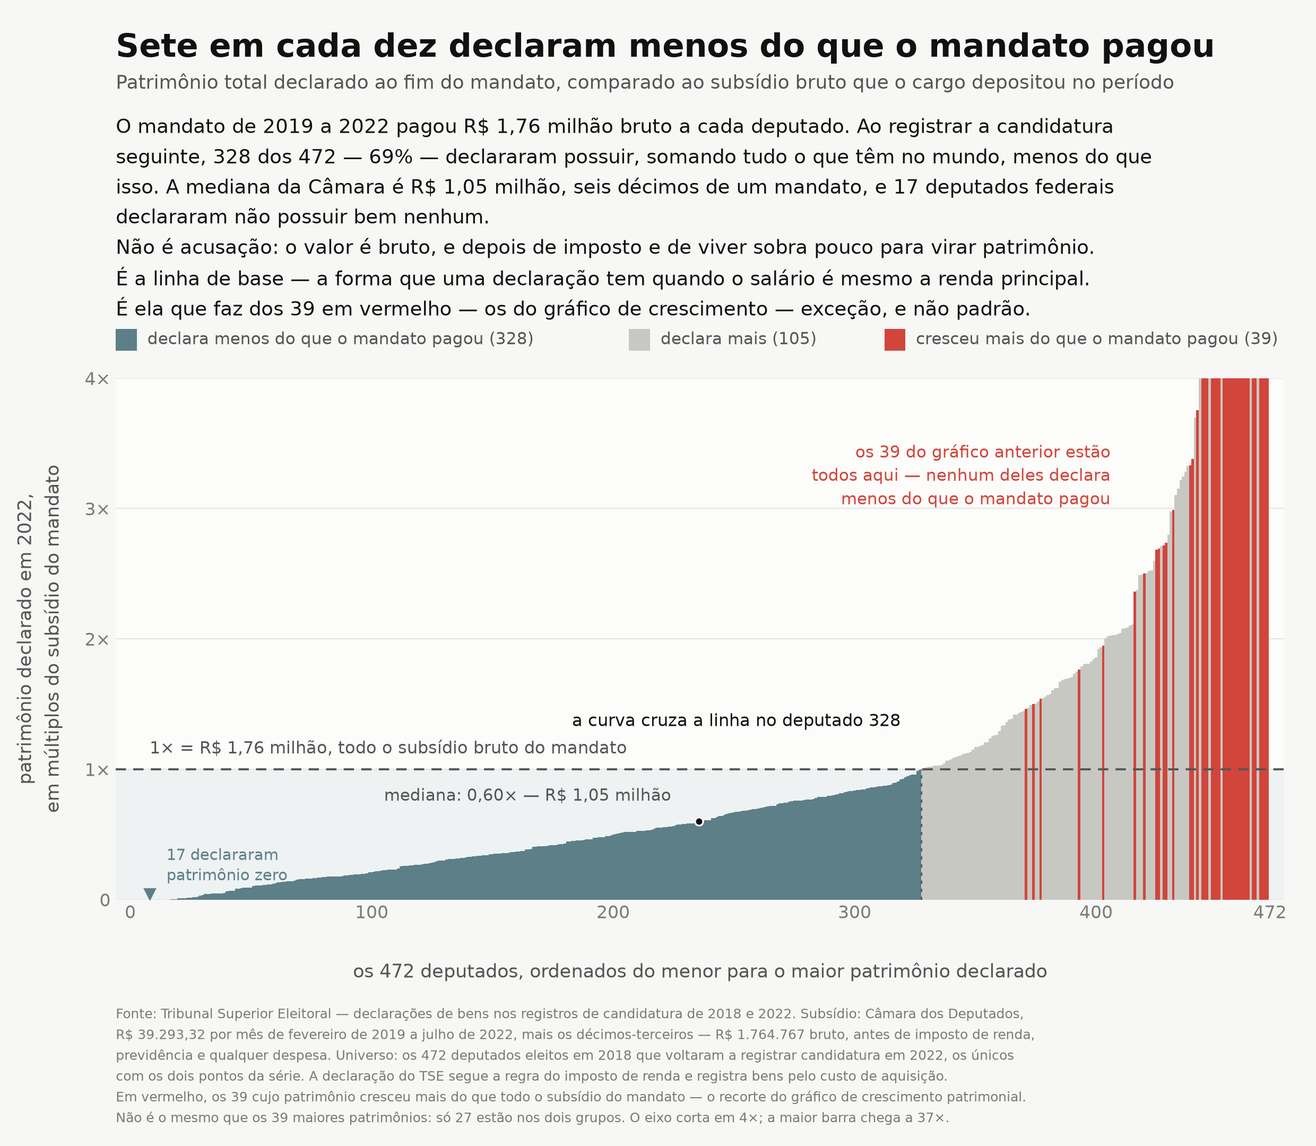
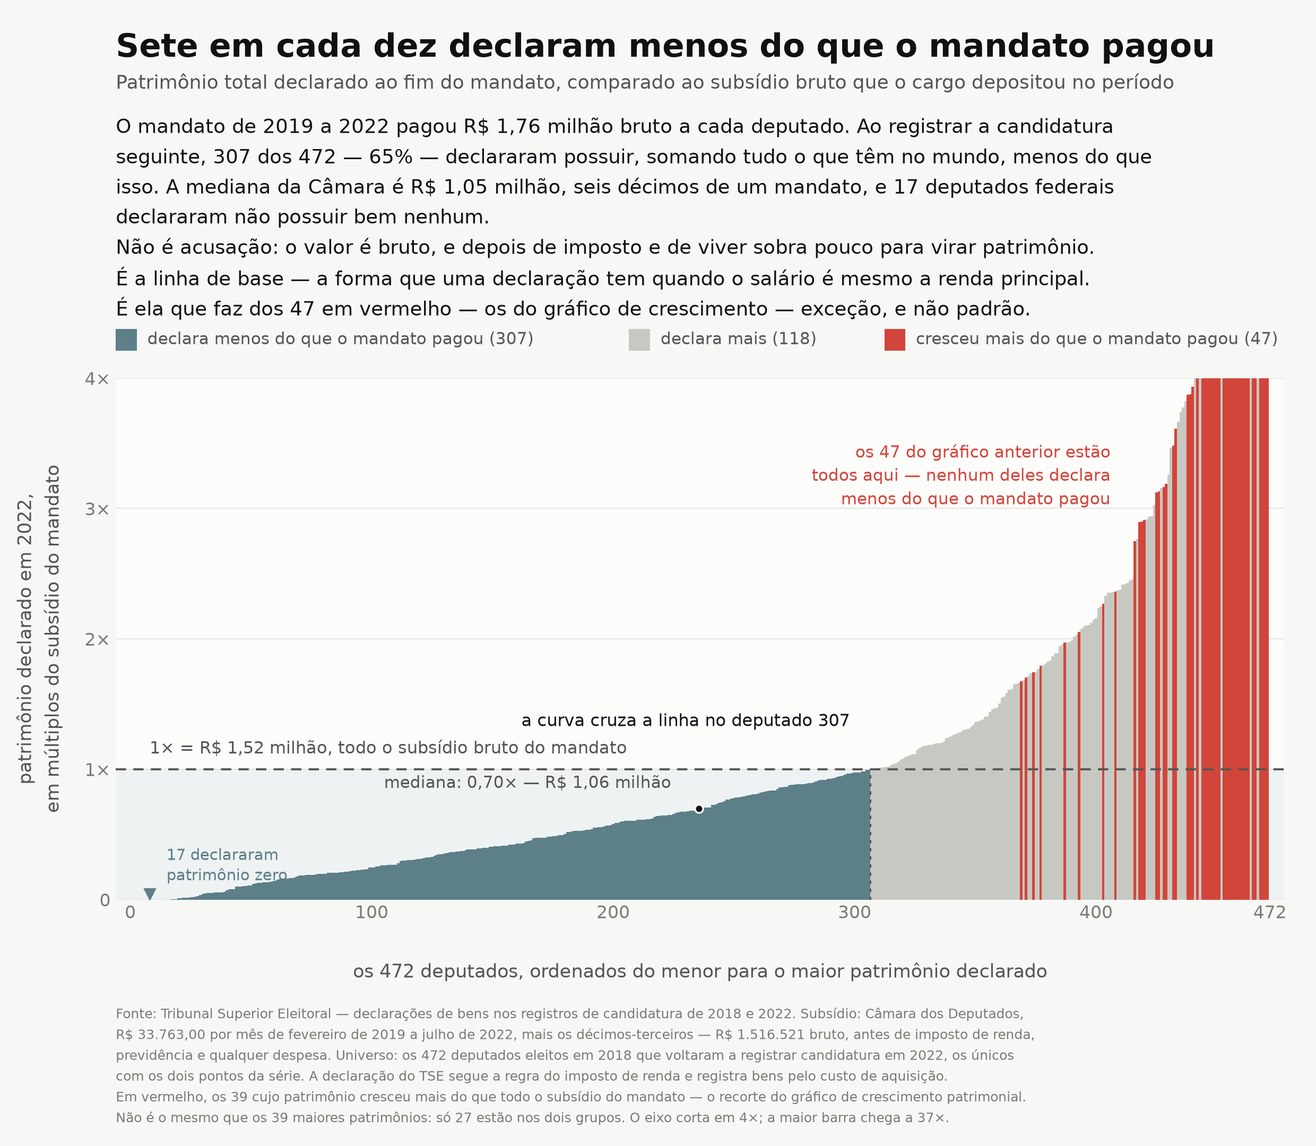
fix: corrige a régua do subsídio em "O salário não explica"
A constante era R$ 1.764.767, derivada de R$ 39.293,32/mês "desde
fevereiro de 2019". O valor existe, a data não: ele só passou a vigorar em
1º de janeiro de 2023, pelo Decreto Legislativo 172/2022. No mandato
2019-2022 o subsídio foi R$ 33.763,00, fixado pelo DL 276/2014 e congelado
desde fevereiro de 2015. A régua estava 16,4% alta, e o erro tornou a
análise mais conservadora do que os dados permitiam.

Com R$ 1.516.521:
- 47 deputados cruzam a linha, não 39
- eles concentram 69,1% do crescimento positivo, não 89,6%
- o capital social das próprias empresas cobre 13 deles, não 11, e sobram
  R$ 162,8 milhões sem contrapartida, não R$ 153,1 milhões
- 157 encolheram, não 150
- por bloco: direita 27 (11,5%), centro 13 (10,3%), esquerda 7 (6,3%) — a
  distância entre direita e centro praticamente some, o que enfraquece a
  leitura por espectro que o capítulo já tratava com cautela
- no gráfico do estoque: 307 abaixo de 1x (65,0%), não 328 (69,5%), e
  mediana 0,70x, não 0,60x

Três figuras regeradas. Os rótulos de valor passam a derivar da constante
em vez de repetir o número à mão.

Changed region(s): [[0.2794, 0.3412, 0.9315, 0.8065], [0.2484, 0.7444, 0.3726, 0.7755], [0.2173, 0.2481, 0.2484, 0.2792]]

diff --git a/pages/analises/o-salario-nao-explica/index.html b/pages/analises/o-salario-nao-explica/index.html
@@ -5,7 +5,7 @@
 <meta name="viewport" content="width=device-width, initial-scale=1">
 <!-- gerado por scripts/gera_analises.py — não editar à mão -->
 <title>O salário não explica — rodado</title>
-<meta name="description" content="Um deputado ganhou R$ 1,76 milhão de subsídio bruto entre 2018 e 2022. Trinta e nove declararam crescimento patrimonial maior que isso — e concentram 89,6% de tudo o que a Câmara engordou no período. No topo, uma fazenda de R$ 32,9 milhões que não existia na declaração anterior, e um crédito contra o mesmo parente que saltou de R$ 950 mil para R$ 8,8 milhões. Na outra ponta, 150 encolheram e 17 declararam zero. E metade da Casa — 253 dos 513 — é dona ou sócia de empresa, 933 no total.">
+<meta name="description" content="Um deputado ganhou R$ 1,52 milhão de subsídio bruto entre 2018 e 2022 — valor congelado desde 2014. Quarenta e sete declararam crescimento patrimonial maior que isso, e concentram 69,1% de tudo o que a Câmara engordou no período. No topo, uma fazenda de R$ 32,9 milhões que não existia na declaração anterior, e um crédito contra o mesmo parente que saltou de R$ 950 mil para R$ 8,8 milhões. Na outra ponta, 157 encolheram e 17 declararam zero. E metade da Casa — 253 dos 513 — é dona ou sócia de empresa, 933 no total.">
 <!-- seo:start (gerado por scripts/gera_seo.py — não editar à mão) -->
 <link rel="canonical" href="https://rodado.xyz/analises/o-salario-nao-explica/">
 <meta property="og:type" content="article">
@@ -13,14 +13,14 @@
 <meta property="og:locale" content="pt_BR">
 <meta property="og:url" content="https://rodado.xyz/analises/o-salario-nao-explica/">
 <meta property="og:title" content="O salário não explica">
-<meta property="og:description" content="Um deputado ganhou R$ 1,76 milhão de subsídio bruto entre 2018 e 2022. Trinta e nove declararam crescimento patrimonial maior que isso — e concentram 89,6% de tudo o que a Câmara engordou no período. No topo, uma fazenda de R$ 32,9 milhões que não existia na declaração anterior, e um crédito contra o mesmo parente que saltou de R$ 950 mil para R$ 8,8 milhões. Na outra ponta, 150 encolheram e 17 declararam zero. E metade da Casa — 253 dos 513 — é dona ou sócia de empresa, 933 no total.">
+<meta property="og:description" content="Um deputado ganhou R$ 1,52 milhão de subsídio bruto entre 2018 e 2022 — valor congelado desde 2014. Quarenta e sete declararam crescimento patrimonial maior que isso, e concentram 69,1% de tudo o que a Câmara engordou no período. No topo, uma fazenda de R$ 32,9 milhões que não existia na declaração anterior, e um crédito contra o mesmo parente que saltou de R$ 950 mil para R$ 8,8 milhões. Na outra ponta, 157 encolheram e 17 declararam zero. E metade da Casa — 253 dos 513 — é dona ou sócia de empresa, 933 no total.">
 <meta property="og:image" content="https://rodado.xyz/analises/img/og-o-salario-nao-explica.png">
 <meta property="og:image:width" content="1200">
 <meta property="og:image:height" content="630">
 <meta property="og:image:alt" content="O salário não explica — rodado">
 <meta name="twitter:card" content="summary_large_image">
 <meta name="twitter:title" content="O salário não explica">
-<meta name="twitter:description" content="Um deputado ganhou R$ 1,76 milhão de subsídio bruto entre 2018 e 2022. Trinta e nove declararam crescimento patrimonial maior que isso — e concentram 89,6% de tudo o que a Câmara engordou no período. No topo, uma fazenda de R$ 32,9 milhões que não existia na declaração anterior, e um crédito contra o mesmo parente que saltou de R$ 950 mil para R$ 8,8 milhões. Na outra ponta, 150 encolheram e 17 declararam zero. E metade da Casa — 253 dos 513 — é dona ou sócia de empresa, 933 no total.">
+<meta name="twitter:description" content="Um deputado ganhou R$ 1,52 milhão de subsídio bruto entre 2018 e 2022 — valor congelado desde 2014. Quarenta e sete declararam crescimento patrimonial maior que isso, e concentram 69,1% de tudo o que a Câmara engordou no período. No topo, uma fazenda de R$ 32,9 milhões que não existia na declaração anterior, e um crédito contra o mesmo parente que saltou de R$ 950 mil para R$ 8,8 milhões. Na outra ponta, 157 encolheram e 17 declararam zero. E metade da Casa — 253 dos 513 — é dona ou sócia de empresa, 933 no total.">
 <meta name="twitter:image" content="https://rodado.xyz/analises/img/og-o-salario-nao-explica.png">
 <link rel="icon" href="../../assets/favicon.ico" sizes="any">
 <link rel="icon" type="image/png" sizes="32x32" href="../../assets/favicon-32.png">
@@ -29,7 +29,7 @@
 <link rel="manifest" href="https://rodado.xyz/site.webmanifest">
 <meta name="theme-color" content="#9c3b2e">
 <meta name="robots" content="index,follow,max-image-preview:large,max-snippet:-1">
-<script type="application/ld+json">{"@context":"https://schema.org","@type":"Article","headline":"O salário não explica","description":"Um deputado ganhou R$ 1,76 milhão de subsídio bruto entre 2018 e 2022. Trinta e nove declararam crescimento patrimonial maior que isso — e concentram 89,6% de tudo o que a Câmara engordou no período. No topo, uma fazenda de R$ 32,9 milhões que não existia na declaração anterior, e um crédito contra o mesmo parente que saltou de R$ 950 mil para R$ 8,8 milhões. Na outra ponta, 150 encolheram e 17 declararam zero. E metade da Casa — 253 dos 513 — é dona ou sócia de empresa, 933 no total.","url":"https://rodado.xyz/analises/o-salario-nao-explica/","image":"https://rodado.xyz/analises/img/og-o-salario-nao-explica.png","datePublished":"2026-08","inLanguage":"pt-BR","author":{"@type":"Organization","name":"rodado"},"isPartOf":{"@type":"WebSite","name":"rodado","url":"https://rodado.xyz/"}}</script>
+<script type="application/ld+json">{"@context":"https://schema.org","@type":"Article","headline":"O salário não explica","description":"Um deputado ganhou R$ 1,52 milhão de subsídio bruto entre 2018 e 2022 — valor congelado desde 2014. Quarenta e sete declararam crescimento patrimonial maior que isso, e concentram 69,1% de tudo o que a Câmara engordou no período. No topo, uma fazenda de R$ 32,9 milhões que não existia na declaração anterior, e um crédito contra o mesmo parente que saltou de R$ 950 mil para R$ 8,8 milhões. Na outra ponta, 157 encolheram e 17 declararam zero. E metade da Casa — 253 dos 513 — é dona ou sócia de empresa, 933 no total.","url":"https://rodado.xyz/analises/o-salario-nao-explica/","image":"https://rodado.xyz/analises/img/og-o-salario-nao-explica.png","datePublished":"2026-08","inLanguage":"pt-BR","author":{"@type":"Organization","name":"rodado"},"isPartOf":{"@type":"WebSite","name":"rodado","url":"https://rodado.xyz/"}}</script>
 <!-- seo:end -->
 <!-- a linha do site.css é marca do bloco comum: o gera_seo.py a substitui pelo
      bloco inteiro aqui, e não no fim do <head>, para o analises.css abaixo

diff --git a/scripts/plot_patrimonio_abaixo_subsidio.py b/scripts/plot_patrimonio_abaixo_subsidio.py
@@ -2,7 +2,7 @@
 """O outro lado da mesma régua: quantos deputados declaram ter menos do que o
 mandato lhes pagou.
 
-O gráfico dos múltiplos do subsídio olha para cima — os 39 cujo patrimônio
+O gráfico dos múltiplos do subsídio olha para cima — os 47 cujo patrimônio
 cresceu mais do que o cargo poderia ter pago. Este olha para baixo, e mede
 outra coisa: não o crescimento, mas o **estoque**. Ao fim do mandato, quanto
 cada deputado declara possuir no total, comparado com o que o mandato inteiro
@@ -11,19 +11,19 @@ lhe depositou em conta.
   universo   os mesmos 472 deputados federais eleitos em 2018 que voltaram a
              registrar candidatura em 2022.
   eixo y     patrimônio total declarado no registro de 2022 dividido pelo
-             subsídio bruto do mandato (R$ 1.764.767). 1,0 = o deputado declara
+             subsídio bruto do mandato (R$ 1.516.521). 1,0 = o deputado declara
              possuir exatamente o que o cargo lhe pagou em 42 meses.
   eixo x     os 472 ordenados do menor para o maior.
 
 Por que a comparação não acusa ninguém: o subsídio é bruto. Descontado imposto
-de renda e previdência sobram cerca de R$ 1,25 milhão, e sobre isso ainda incide
+de renda e previdência sobram cerca de R$ 1,1 milhão, e sobre isso ainda incide
 a vida — moradia, escola, viagem, o custo de manter presença em dois estados.
 Declarar menos de 1× é o comportamento esperado de quem gasta o que ganha.
 
 O que o gráfico mostra, então, é a **linha de base**: a forma que uma declaração
-de bens tem quando o salário é a renda principal. É essa forma que torna os 39
+de bens tem quando o salário é a renda principal. É essa forma que torna os 47
 do outro gráfico visíveis como exceção. E é ela que dá escala ao terceiro grupo,
-o dos 133 que declaram menos que o subsídio do mandato e ainda assim declararam
+o dos que declaram menos que o subsídio do mandato e ainda assim declararam
 em 2022 menos do que tinham em 2018.
 
 Ressalva de dado: bens_candidato traz ~1% de linhas byte-idênticas repetidas.
@@ -41,7 +41,14 @@ import subprocess
 import matplotlib.pyplot as plt
 from matplotlib.patches import Rectangle
 
-SUBSIDIO = 1_764_767.0
+SUBSIDIO = 1_516_521.0   # bruto acumulado do mandato entre as duas declarações
+# R$ 33.763,00/mês, fixado pelo Decreto Legislativo 276/2014 com efeitos a
+# partir de 1º/02/2015 e congelado até 31/12/2022 — vigorou, portanto, no
+# mandato inteiro. São 42 meses (fev/2019 a jul/2022) mais os décimos-terceiros
+# de 2019 (proporcional), 2020 e 2021.
+# Antes daqui havia R$ 1.764.767, derivado de R$ 39.293,32/mês "desde fevereiro
+# de 2019". O valor existe, a data não: ele só passou a vigorar em 1º/01/2023,
+# pelo Decreto Legislativo 172/2022. A régua estava 16,4% alta.
 
 SQL = """SET enable_progress_bar=false;
 WITH bens AS (
@@ -156,14 +163,16 @@ ax.text(len(abaixo) - 9, 1.30,
         f"a curva cruza a linha no deputado {len(abaixo)}",
         fontsize=11.5, color=TXT, va="bottom", ha="right", zorder=7)
 
-ax.text(8, 1.09, "1× = R\\$ 1,76 milhão, todo o subsídio bruto do mandato",
+ax.text(8, 1.09, f"1× = R\\$ {SUBSIDIO/1e6:.2f}".replace(".", ",")
+        + " milhão, todo o subsídio bruto do mandato",
         fontsize=11.5, color=TXT2, va="bottom", ha="left", zorder=7)
 
 # mediana
 ax.plot([n // 2 - 0.5], [mediana], marker="o", ms=5.5, color=TXT,
         zorder=7, mec=SURFACE, mew=1.2)
 ax.text(n // 2 - 12, mediana + 0.13,
-        f"mediana: {('%.2f' % mediana).replace('.', ',')}× — R\\$ 1,05 milhão",
+        f"mediana: {('%.2f' % mediana).replace('.', ',')}× — R\\$ "
+        + f"{mediana*SUBSIDIO/1e6:.2f}".replace(".", ",") + " milhão",
         fontsize=11, color=TXT2, va="bottom", ha="right", zorder=7)
 
 ax.text(n - 66, 3.52,
@@ -203,7 +212,7 @@ for x, cor, rot in ((0.088, ABAIXO, f"declara menos do que o mandato pagou ({len
 
 fig.text(0.088, 0.124,
          "Fonte: Tribunal Superior Eleitoral — declarações de bens nos registros de candidatura de 2018 e 2022. Subsídio: Câmara dos Deputados,\n"
-         "R\\$ 39.293,32 por mês de fevereiro de 2019 a julho de 2022, mais os décimos-terceiros — R\\$ 1.764.767 bruto, antes de imposto de renda,\n"
+         "R\\$ 33.763,00 por mês de fevereiro de 2019 a julho de 2022, mais os décimos-terceiros — R\\$ 1.516.521 bruto, antes de imposto de renda,\n"
          "previdência e qualquer despesa. Universo: os 472 deputados eleitos em 2018 que voltaram a registrar candidatura em 2022, os únicos\n"
          "com os dois pontos da série. A declaração do TSE segue a regra do imposto de renda e registra bens pelo custo de aquisição.\n"
          "Em vermelho, os 39 cujo patrimônio cresceu mais do que todo o subsídio do mandato — o recorte do gráfico de crescimento patrimonial.\n"

diff --git a/scripts/plot_patrimonio_deputados_2018_2022.py b/scripts/plot_patrimonio_deputados_2018_2022.py
@@ -27,10 +27,10 @@ cobre o crescimento declarado, o excedente não tem, no dado público, de onde t
 vindo. Onde ela cobre, o caso deixa de ser anomalia de salário e vira pergunta
 de contabilidade empresarial — outra apuração, com outros documentos.
 
-Subsídio: R$ 39.293,32/mês desde fevereiro de 2019 (Câmara dos Deputados).
+Subsídio: R$ 33.763,00/mês (Decreto Legislativo 276/2014, efeitos desde 1º/02/2015).
 Entre a declaração de 2018 (registro em agosto) e a de 2022 (idem) o eleito
 exerceu mandato de fev/2019 a jul/2022 — 42 meses — mais os décimos-terceiros
-de 2019 (proporcional), 2020 e 2021. Total bruto: R$ 1.764.767.
+de 2019 (proporcional), 2020 e 2021. Total bruto: R$ 1.516.521.
 
 Por que a comparação faz sentido: a declaração de bens do TSE segue a regra do
 imposto de renda e registra bens pelo **custo de aquisição**, não pelo valor de
@@ -69,7 +69,14 @@ import subprocess
 import matplotlib.pyplot as plt
 from matplotlib.patches import FancyBboxPatch, Rectangle
 
-SUBSIDIO = 1_764_767.0   # bruto acumulado do mandato entre as duas declarações
+SUBSIDIO = 1_516_521.0   # bruto acumulado do mandato entre as duas declarações
+# R$ 33.763,00/mês, fixado pelo Decreto Legislativo 276/2014 com efeitos a
+# partir de 1º/02/2015 e congelado até 31/12/2022 — vigorou, portanto, no
+# mandato inteiro. São 42 meses (fev/2019 a jul/2022) mais os décimos-terceiros
+# de 2019 (proporcional), 2020 e 2021.
+# Antes daqui havia R$ 1.764.767, derivado de R$ 39.293,32/mês "desde fevereiro
+# de 2019". O valor existe, a data não: ele só passou a vigorar em 1º/01/2023,
+# pelo Decreto Legislativo 172/2022. A régua estava 16,4% alta.
 
 SQL = """SET enable_progress_bar=false;
 WITH bens AS (

diff --git a/pages/analises/results/o-salario-nao-explica.md b/pages/analises/results/o-salario-nao-explica.md
@@ -1,15 +1,15 @@
 # O salário não explica
 
-Um deputado federal ganhou **R$ 1,76 milhão** entre a eleição de 2018 e a de 2022. É o subsídio
-bruto integral: R$ 39.293,32 por mês desde fevereiro de 2019, 42 meses de mandato, mais três
+Um deputado federal ganhou **R$ 1,52 milhão** entre a eleição de 2018 e a de 2022. É o subsídio
+bruto integral: R$ 33.763,00 por mês, valor fixado em 2014 e congelado até o fim de 2022, 42 meses de mandato, mais três
 décimos-terceiros — tudo antes de imposto de renda, previdência, aluguel em Brasília, escola de
 filho, mercado, gasolina. É o teto absoluto do que o cargo poderia ter posto no bolso de alguém
 que não gastasse **nada**.
 
-Dos 472 deputados eleitos em 2018 que voltaram a registrar candidatura em 2022, **39 declararam
+Dos 472 deputados eleitos em 2018 que voltaram a registrar candidatura em 2022, **47 declararam
 um crescimento patrimonial maior que esse teto**. Um deles cresceu vinte e três vezes mais.
 
-E os 39 não são uma cauda qualquer: eles concentram **89,6% de todo o crescimento patrimonial**
+E os 47 não são uma cauda qualquer: eles concentram **69,1% de todo o crescimento patrimonial**
 declarado pelos 472. A Câmara inteira engordou R$ 264,4 milhões entre uma eleição e outra, e
 R$ 237 milhões disso couberam a 8% dos deputados.
 
@@ -52,7 +52,7 @@ que o parlamentar consta do quadro societário como sócio ou titular — sem de
 demais sócios, sem exigir que aquele capital tenha virado renda no bolso dele, e sem cobrar que a
 empresa seja anterior ao mandato. É o teto do negócio que ele tem, não o que tirou de lá.
 
-Mesmo assim, **ela cobre o crescimento de apenas 11 dos 39**. Nos outros 28 sobram **R$ 153,1
+Mesmo assim, **ela cobre o crescimento de apenas 11 dos 47**. Nos outros 34 sobram **R$ 162,8
 milhões** de patrimônio novo que nem o salário nem a empresa própria explicam.
 
 A separação reorganiza a lista inteira. **Hercílio Araújo Diniz Filho** e **Misael Varella**, 2º e
@@ -128,7 +128,7 @@ Nove vezes maior, e sozinho equivalente a 116% de todo o crescimento patrimonial
 (outros itens encolheram).
 
 Emprestar R$ 8,8 milhões a um parente durante o mandato exige ter tido R$ 8,8 milhões líquidos
-para emprestar. O subsídio bruto de todo o período foi R$ 1,76 milhão.
+para emprestar. O subsídio bruto de todo o período foi R$ 1,52 milhão.
 
 ### Misael Artur Ferreira Varella (MG) — o grupo familiar
 
@@ -137,7 +137,7 @@ A maior peça é a participação na **Lael Varella Educação e Cultura Ltda** 
 parte de um conjunto de oito empresas do grupo familiar — administração, empreendimentos
 imobiliários, veículos pesados, pneus, águas minerais.
 
-É o perfil mais comum entre os 39: dinastia empresarial consolidada, onde o patrimônio do grupo
+É o perfil mais comum entre os 47: dinastia empresarial consolidada, onde o patrimônio do grupo
 vai sendo progressivamente refletido na declaração pessoal. Menos "enriquecimento súbito", mais
 "contabilidade familiar aparecendo aos poucos" — o que é uma explicação, não uma absolvição:
 a origem do capital continua fora do alcance do dado público.
@@ -183,7 +183,7 @@ deveria tornar a trajetória rastreável.
 
 A pergunta é inevitável, e a resposta tem duas partes que apontam para lados diferentes.
 
-Dos 39 que passam da linha do subsídio, **24 são de partidos de direita, 9 de centro e 6 de
+Dos 47 que passam da linha do subsídio, **27 são de partidos de direita, 13 de centro e 7 de
 esquerda**. Parece muito. Só que o universo já é assim: dos 472 deputados comparáveis, 235
 (49,8%) estavam em legendas de direita no registro de 2022, 126 no centro e 111 na esquerda. O
 grupo que não fecha a conta é majoritariamente de direita, em boa medida, porque **a Câmara é
@@ -191,18 +191,18 @@ majoritariamente de direita**.
 
 | bloco | no universo | acima de 1× | taxa | encolheram | crescimento mediano |
 |---|---:|---:|---:|---:|---:|
-| esquerda | 111 | 6 | 5,4% | 44 (39,6%) | R$ 67 mil |
-| centro | 126 | 9 | 7,1% | 44 (34,9%) | R$ 129 mil |
-| direita | 235 | 24 | 10,2% | 62 (26,4%) | R$ 277 mil |
+| esquerda | 111 | 7 | 6,3% | 45 (40,5%) | R$ 67 mil |
+| centro | 126 | 13 | 10,3% | 46 (36,5%) | R$ 129 mil |
+| direita | 235 | 27 | 11,5% | 66 (28,1%) | R$ 277 mil |
 
-Descontado o tamanho de cada bancada, sobra uma diferença na cauda: 10,2% dos deputados de
-direita cruzaram a linha, contra 7,1% do centro e 5,4% da esquerda — quase o dobro. Mas são 39
+Descontado o tamanho de cada bancada, sobra uma diferença na cauda: 11,5% dos deputados de
+direita cruzaram a linha, contra 10,3% do centro e 6,3% da esquerda. Mas são 47
 casos no total, e uma diferença desse tamanho, nesse número de eventos, ainda cabe dentro do
 acaso. **Com este dado não dá para afirmar que a direita produza proporcionalmente mais casos
 extremos.** A bancada com a maior taxa entre as de porte médio, aliás, é o **PDT — 3 dos 17**,
 que é de esquerda.
 
-Por partido, os 39 se distribuem assim: PL 8 · PP 8 · MDB 3 · UNIÃO 3 · PSDB 3 · PDT 3 · PSD 2 ·
+Por partido, os 47 se distribuem assim: PP 10 · PL 9 · MDB 6 · PSDB 3 · PDT 3 · UNIÃO 3 · PSB 2 · PSC 2 · PSD 2 · PT 2 · REPUBLICANOS 2 ·
 PT 2 · PSC 2 · REPUBLICANOS 2 · PTB 1 · PSB 1 · CIDADANIA 1. A comparação que interessa é com o
 tamanho de cada bancada no universo: o **PP** põe 8 dos seus 48 acima da linha (16,7%), o **PL**
 8 de 74 (10,8%) e o **PT**, segunda maior bancada do grupo, **2 de 53 (3,8%)**. PSOL, PC do B,
@@ -210,8 +210,8 @@ PV, REDE, NOVO, PODE, PATRIOTA, AVANTE, PROS e SOLIDARIEDADE não têm nenhum.
 
 O contraste que de fato resiste não está na cauda — está no meio da distribuição. O deputado de
 direita mediano declarou **R$ 277 mil a mais** em 2022 do que em 2018; o de esquerda, **R$ 67
-mil** — quatro vezes menos. E encolher é bem mais comum à esquerda: 39,6% dos deputados de
-esquerda declararam em 2022 menos do que tinham, contra 26,4% dos de direita. Aí a separação é
+mil** — quatro vezes menos. E encolher é bem mais comum à esquerda: 40,5% dos deputados de
+esquerda declararam em 2022 menos do que tinham, contra 28,1% dos de direita. Aí a separação é
 consistente demais para ser sorteio: **não é que a direita concentre os escândalos, é que a
 Câmara de direita enriqueceu mais, de forma distribuída, ao longo de todo o corpo da bancada.**
 
@@ -220,7 +220,7 @@ ideológica dos partidos brasileiros de Bolognesi, Ribeiro e Codato, montada a p
 a especialistas — esquerda: PT, PSOL, PC do B, PDT, PSB, PV e REDE; centro: MDB, PSD, PSDB,
 PODE, CIDADANIA, SOLIDARIEDADE, AVANTE e PROS; direita: PL, PP, UNIÃO, REPUBLICANOS, PSC, NOVO,
 PTB e PATRIOTA. E o partido considerado é o do registro de **2022**, não o de 2018: **194 dos 472
-trocaram de sigla entre uma eleição e outra** — 14 deles entre os 39 —, então cada deputado entra
+trocaram de sigla entre uma eleição e outra** — 14 deles entre os 47 —, então cada deputado entra
 aqui pela legenda de destino, e não pela de origem.
 
 ---
@@ -247,7 +247,7 @@ apurar. É uma pergunta com data marcada.
 
 ---
 
-## Para onde foi o dinheiro dos 39
+## Para onde foi o dinheiro dos 47
 
 | Tipo de bem | variação agregada |
 |---|---:|
@@ -307,7 +307,7 @@ Rios & Rios, Patrimonial São Félix. E o sétimo colocado é eleito com o nome 
 levou o nome da própria empresa para a urna.
 
 Dois nomes dessa tabela já apareceram na primeira metade desta análise por outro motivo: Misael
-Varella e Glaustin da Fokus estão entre os 39 cujo crescimento patrimonial supera o subsídio do
+Varella e Glaustin da Fokus estão entre os 47 cujo crescimento patrimonial supera o subsídio do
 mandato. Magda Mofatto também.
 
 Uma distinção que muda o número, e que é fácil errar: **ser administrador de uma empresa não é
@@ -329,13 +329,13 @@ teria de ser procurada, caso não tenha.
 
 ## O que este levantamento não diz
 
-Ele **não afirma que os 39 cometeram crime**, e a distinção importa.
+Ele **não afirma que os 47 cometeram crime**, e a distinção importa.
 
 Deputado pode ter renda perfeitamente lícita fora do subsídio: lucro de empresa, aluguel,
 herança, venda de bem com ganho de capital, rendimento de aplicação, renda do cônjuge em regime
-de comunhão. Vários dos 39 são empresários declarados desde antes do mandato, e para eles o
+de comunhão. Vários dos 47 são empresários declarados desde antes do mandato, e para eles o
 crescimento patrimonial é o resultado esperado do negócio, não do cargo — é exatamente o que a
-segunda cor do gráfico separa, e ela absolve 11 dos 39 já no critério mais generoso possível.
+segunda cor do gráfico separa, e ela absolve 13 dos 47 já no critério mais generoso possível.
 
 O que o número mede é outra coisa: **quanto da variação o salário deixa de explicar**. É um
 filtro de triagem, não um veredito. Serve para dizer onde a checagem deve começar — e a checagem
